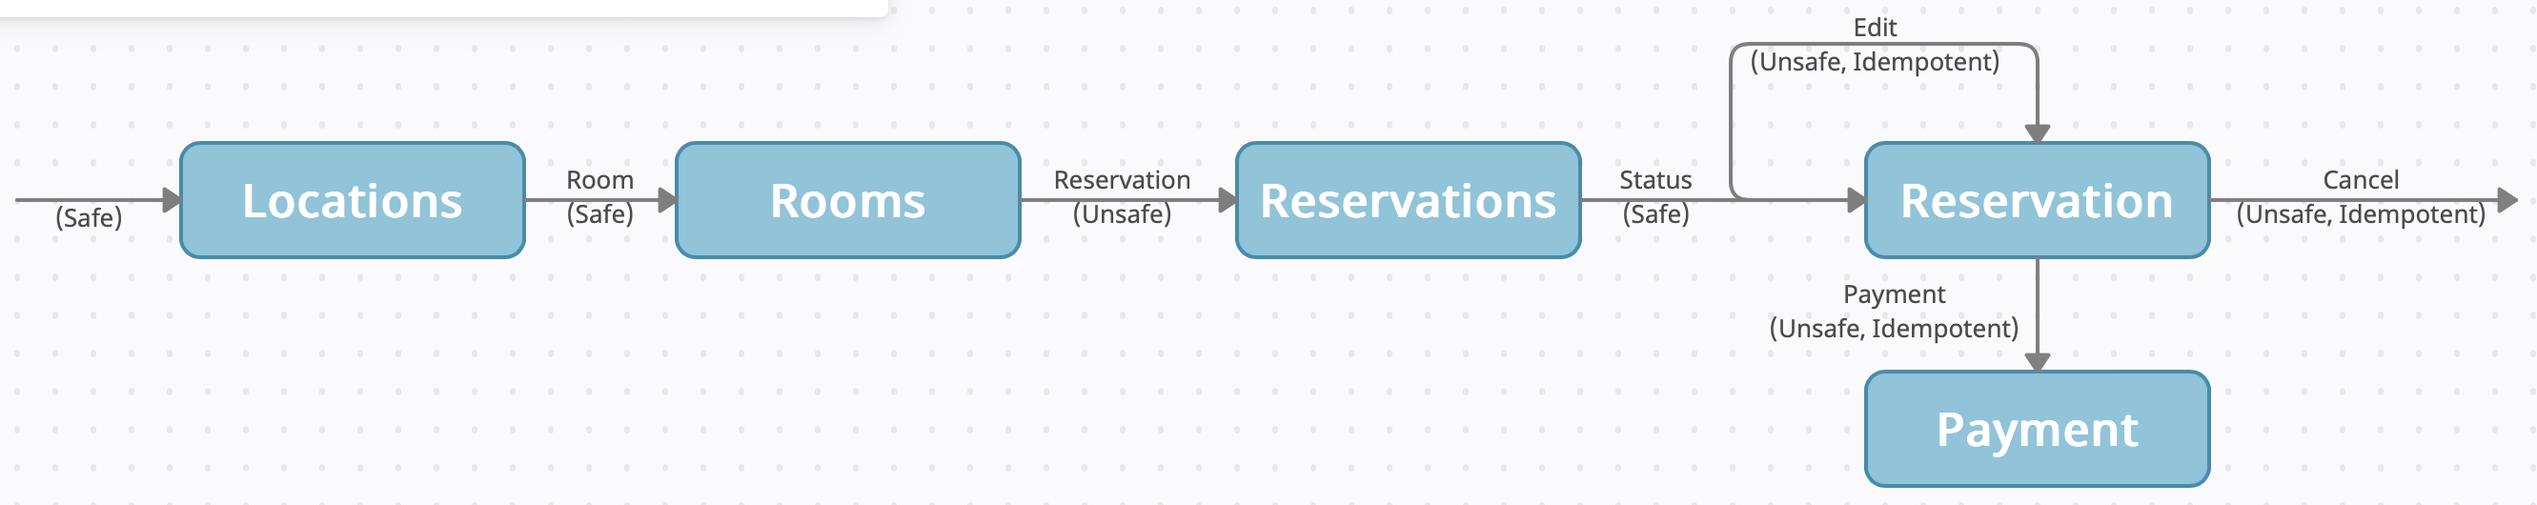
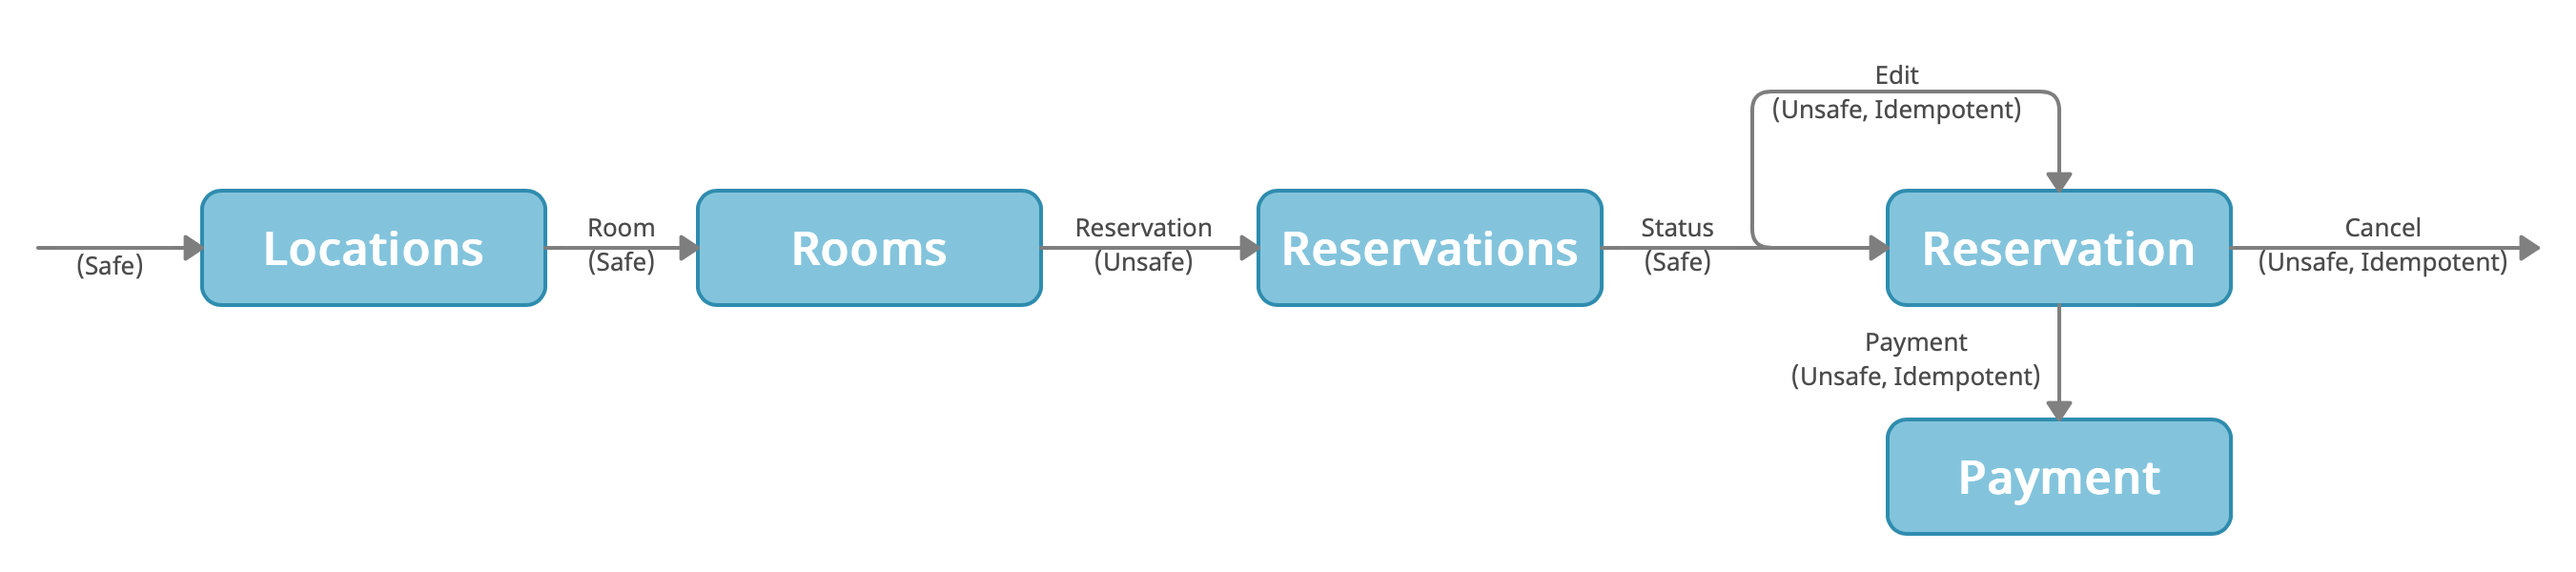
Update diagrams

Changed region(s): [[0.0, 0.0302, 0.9977, 0.5434], [0.686, 0.5736, 0.873, 0.966], [0.0, 0.0302, 0.343, 0.0604]]

diff --git a/docs/proposals/introducing-initial-support-for-hateoas.md b/docs/proposals/introducing-initial-support-for-hateoas.md
@@ -26,12 +26,12 @@ It also brings direction as to what might user could do next. Similar to Web pag
 dynamic along with this constraint. Consider the below diagram which represents a set of resources in a resort reservation
 API.
 
-<img width="1225" alt="Screen Shot 2022-06-10 at 9 10 33 AM" src="https://user-images.githubusercontent.com/63336800/172985777-2afcc8e2-435c-4d20-a409-35e764e29a89.png">
+![resources](https://user-images.githubusercontent.com/63336800/173050259-9a24eaef-0fbf-41ff-9568-587de8557c3f.png)
 
 You can see that there is a set of resources but to make sense out of it you have to read some document related to this 
 API. Now consider the same REST API with the Hypermedia constraint applied to it.
 
-<img width="1225" alt="Screen Shot 2022-06-10 at 12 05 56 PM" src="https://user-images.githubusercontent.com/63336800/173005597-d08c052a-4cb6-46bf-9ec9-23b6e29df05b.png">
+![resources-with-links](https://user-images.githubusercontent.com/63336800/173050225-122ed4ee-b24a-4718-adbe-6bd7211b5bb2.png)
 
 Instantly, it changes the outlook of the API. API becomes self-descriptive and easy to make sense. There is no need to 
 read another document to understand it. Moving the API close to a Web like experience. There are other benefits that 
